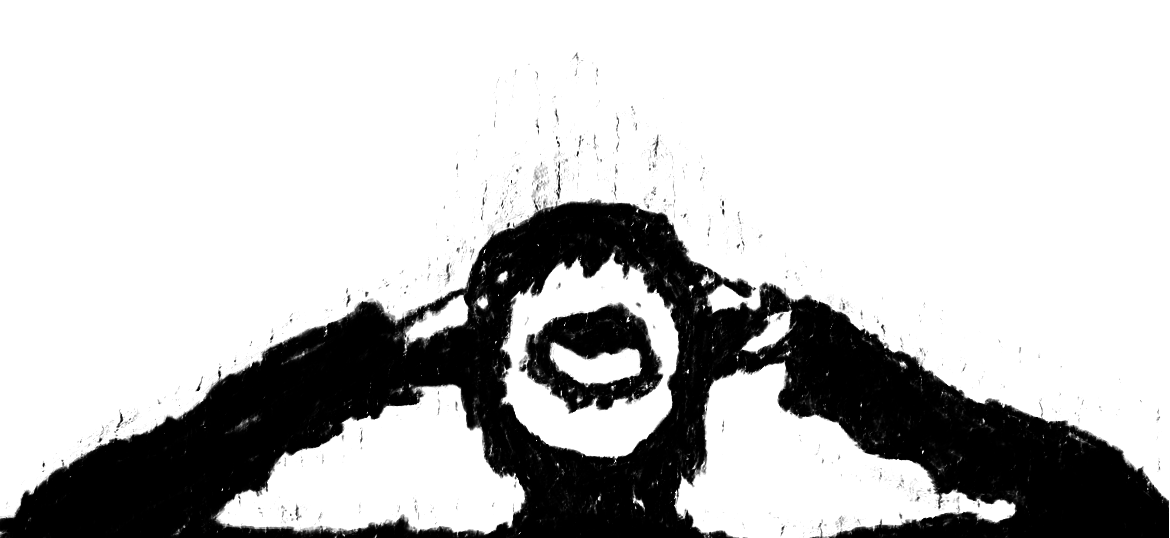
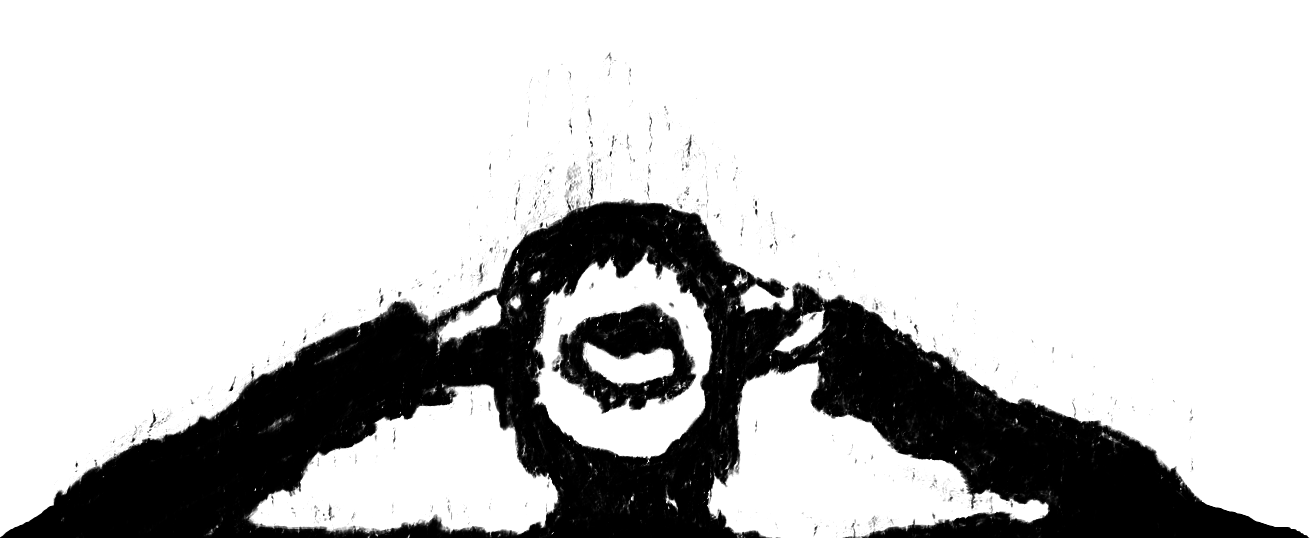
FINISHED FOR NOW

diff --git a/src/app/page.tsx b/src/app/page.tsx
@@ -7,11 +7,24 @@ function App() {
       <h1 className="title">mistcreep</h1>
       
       <div className="socialIcons">
-        <div className="icon">▶</div>
-        <div className="icon">☁</div>
-        <div className="icon">📶</div>
-        <div className="icon">📱</div>
-        <div className="icon">🎵</div>
+        <a href="https://www.spotify.com" target="_blank" rel="noopener noreferrer">
+          <img className="icon" src="spotify.png" alt="Spotify" />
+        </a>
+        <a href="https://www.soundcloud.com" target="_blank" rel="noopener noreferrer">
+          <img className="icon" src="soundcloud.png" alt="SoundCloud" />
+        </a>
+        <a href="https://www.instagram.com" target="_blank" rel="noopener noreferrer">
+          <img className="icon" src="insta.png" alt="Instagram" />
+        </a>
+        <a href="https://www.youtube.com" target="_blank" rel="noopener noreferrer">
+          <img className="icon" src="youtube.png" alt="YouTube" />
+        </a>
+        <a href="https://www.linkedin.com" target="_blank" rel="noopener noreferrer">
+          <img className="icon" src="linkedin.png" alt="LinkedIn" />
+        </a>
+        <a href="https://www.tiktok.com" target="_blank" rel="noopener noreferrer">
+          <img className="icon" src="tiktok.png" alt="TikTok" />
+        </a>
       </div>
       
       <div className="eyeContainer">
@@ -42,7 +55,11 @@ function App() {
       <p className="caption">thank you for letting me look into your eyes</p>
       <p className="caption">thank you for letting me look into your eyes</p>
       <p className="caption">thank you for letting me look into your eyes</p>
-      
+      <p className="caption">thank you for letting me look into your eyes</p>
+      <p className="caption">thank you for letting me look into your eyes</p>
+      <p className="caption">thank you for letting me look into your eyes</p>
+
+
       <div className="headImage">
         <img src="head.png" alt="head"/>
       </div>

diff --git a/src/app/globals.css b/src/app/globals.css
@@ -25,14 +25,23 @@ html, body {
 .socialIcons {
   display: flex;
   justify-content: center;
-  gap: 2vw; 
-  margin-bottom: 2rem;
+  gap: 0vw; 
+  margin-bottom: 0rem;
   width: 100%;
-  font-size: 3vw; 
+}
+
+.socialIcons .icon {
+  width: 9vw; 
+  height: auto;
+}
+
+.socialIcons img:hover {
+  transform: scale(1.3);
+  opacity: 0.5;
 }
 
 .eyeContainer {
-  width: 70vw; 
+  width: 90vw; 
   margin: 2vw 0;
 }
 
@@ -48,10 +57,11 @@ html, body {
 }
 
 .headImage {
-  width: 100vw;
-  position: fixed;
-  bottom: 0; 
+  width: 98vw;
   height: auto;
+  position: sticky; /* Stickiness starts here */
+  bottom: 0;
+  margin-top: 40vh; /* Adjust this value to control when it sticks */
 }
 
 .headImage img {
@@ -62,14 +72,21 @@ html, body {
   height: auto;
 }
 
+.caption:last-of-type {
+  margin-bottom: -45vh; /* Remove extra space below the last caption */
+}
+
 @media (max-width: 768px) {
   .title {
     font-size: 6vw; 
   }
 
   .socialIcons {
-    font-size: 4vw;
     gap: 3vw;
+  }
+
+  .socialIcons .icon {
+    width: 7vw;
   }
 
   .eyeContainer {

diff --git a/src/app/layout.tsx b/src/app/layout.tsx
@@ -16,10 +16,6 @@ export default function RootLayout({
 }>) {
   return (
     <html lang="en">
-      <head>
-        <link rel="icon" href="/favicon.ico" />
-        <title>mistcreep</title>
-      </head>
       <body className={inter.className}>{children}</body>
     </html>
   );
